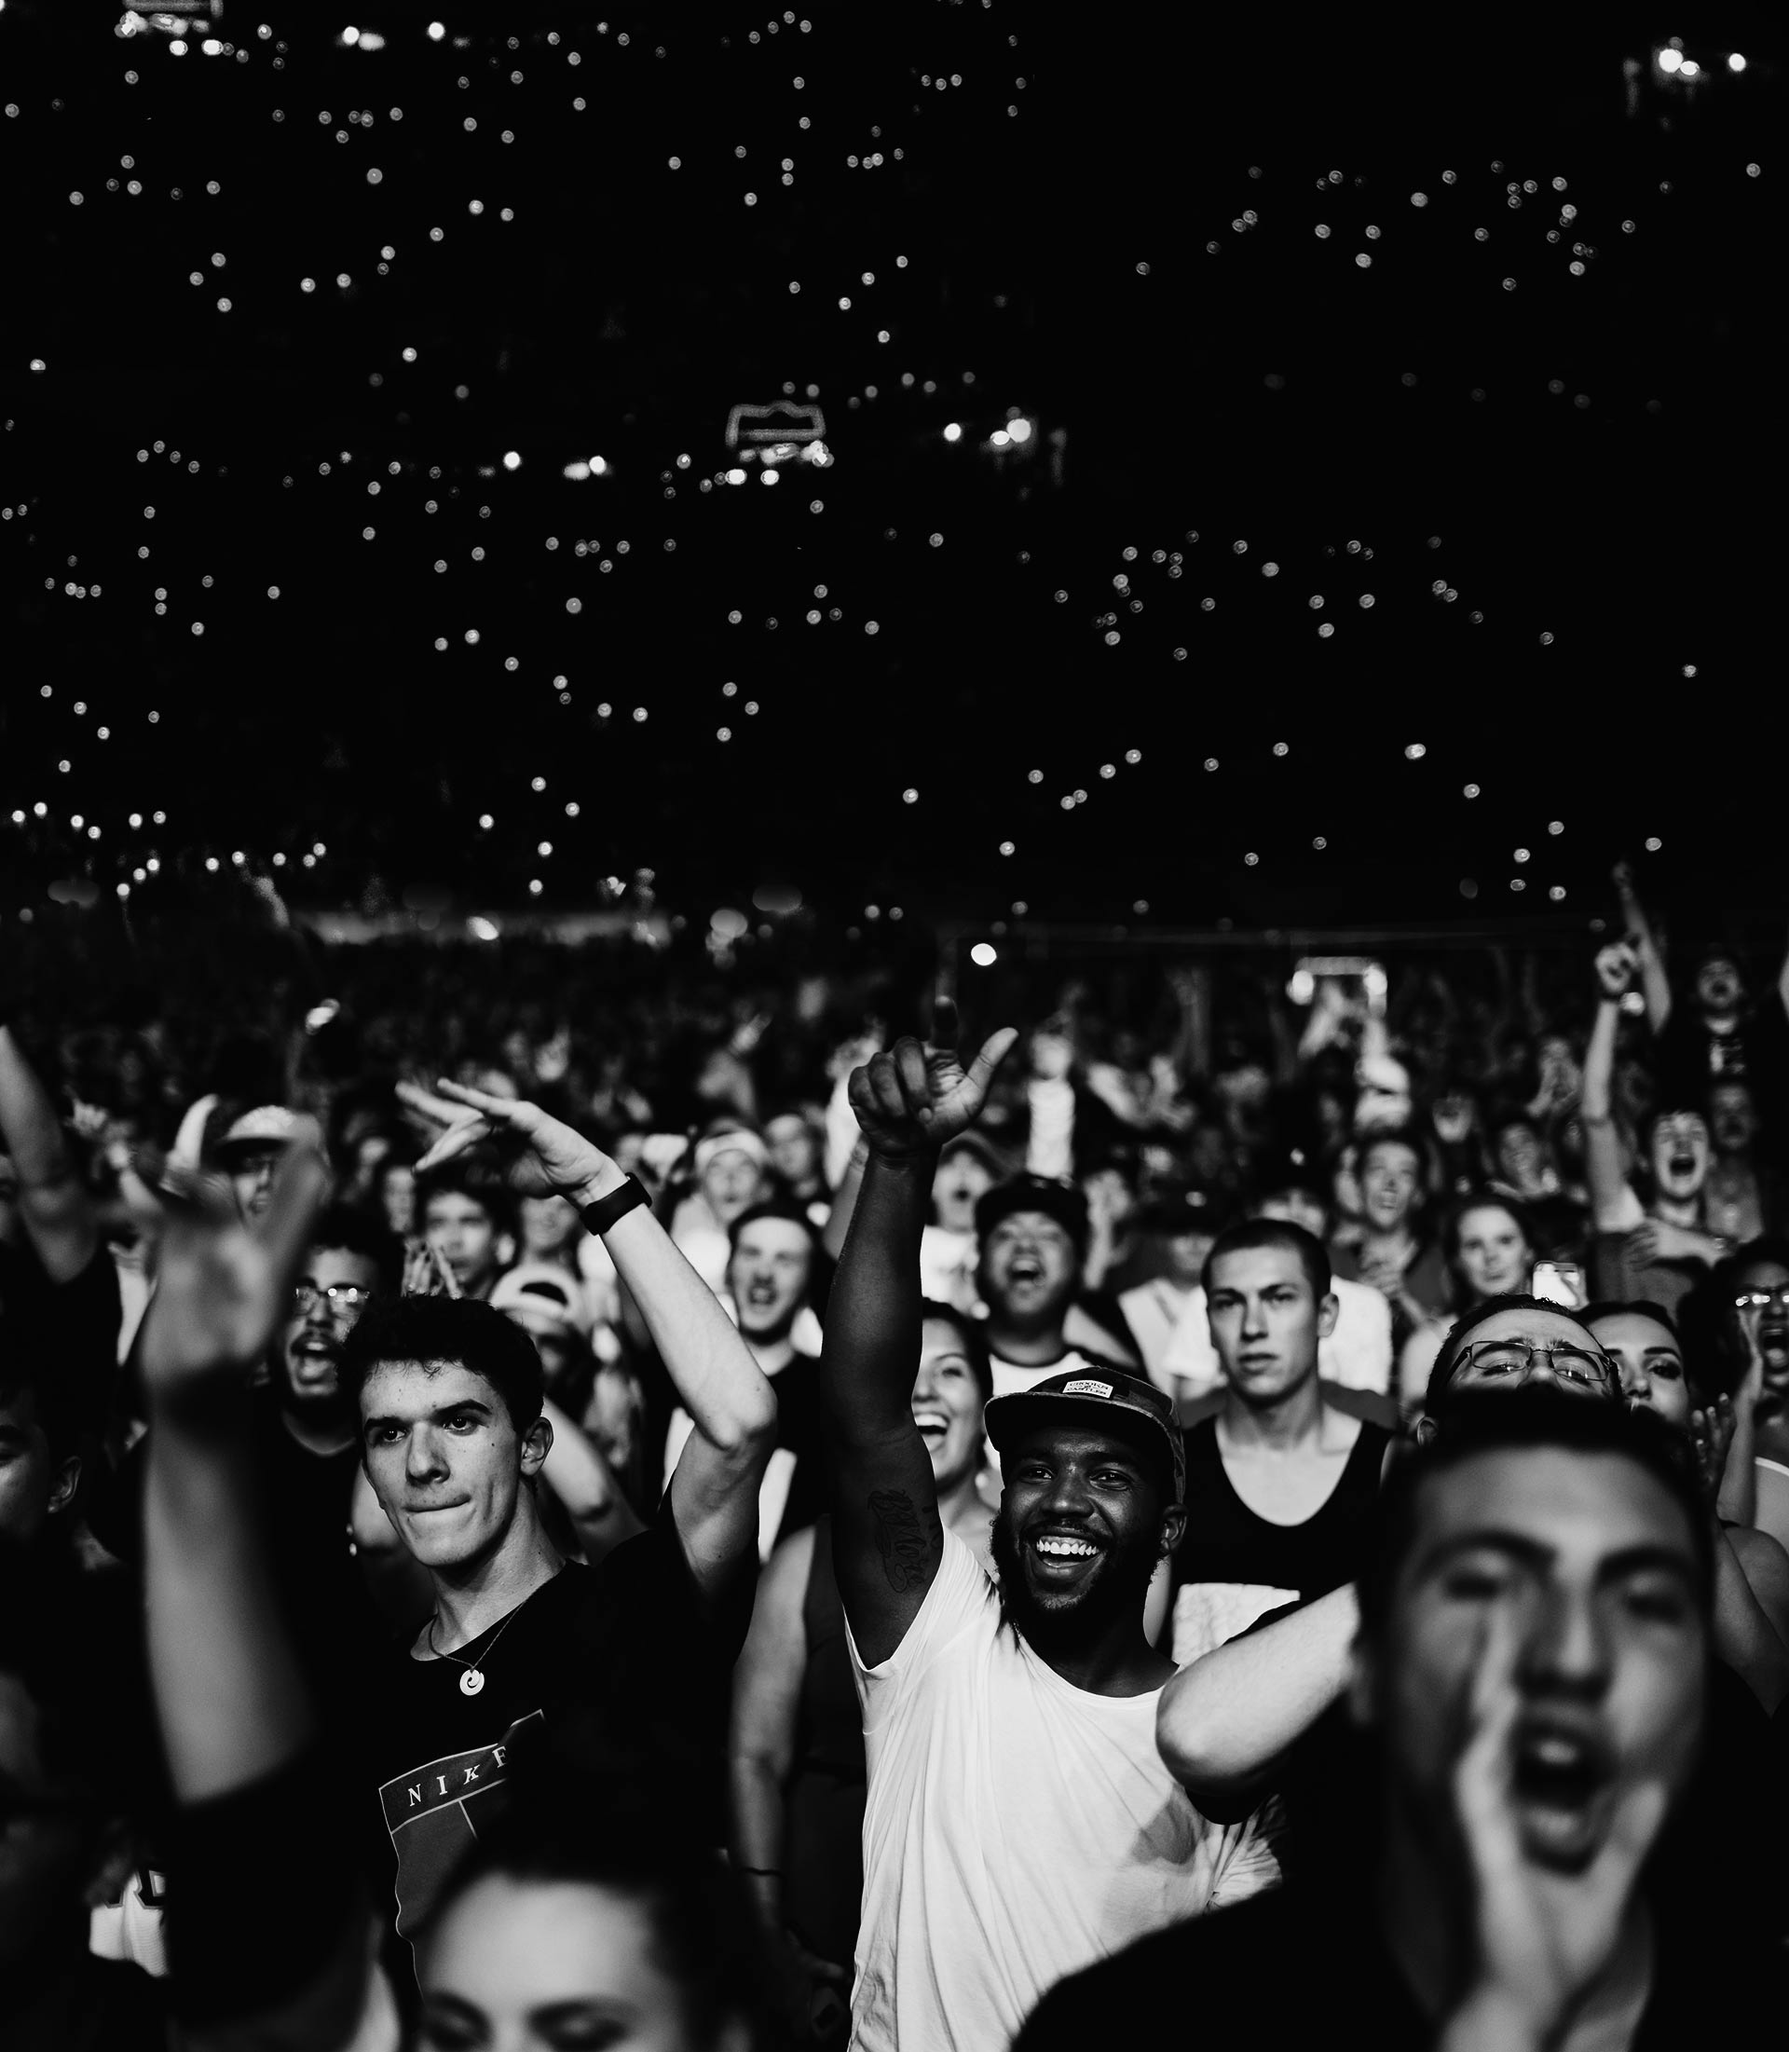
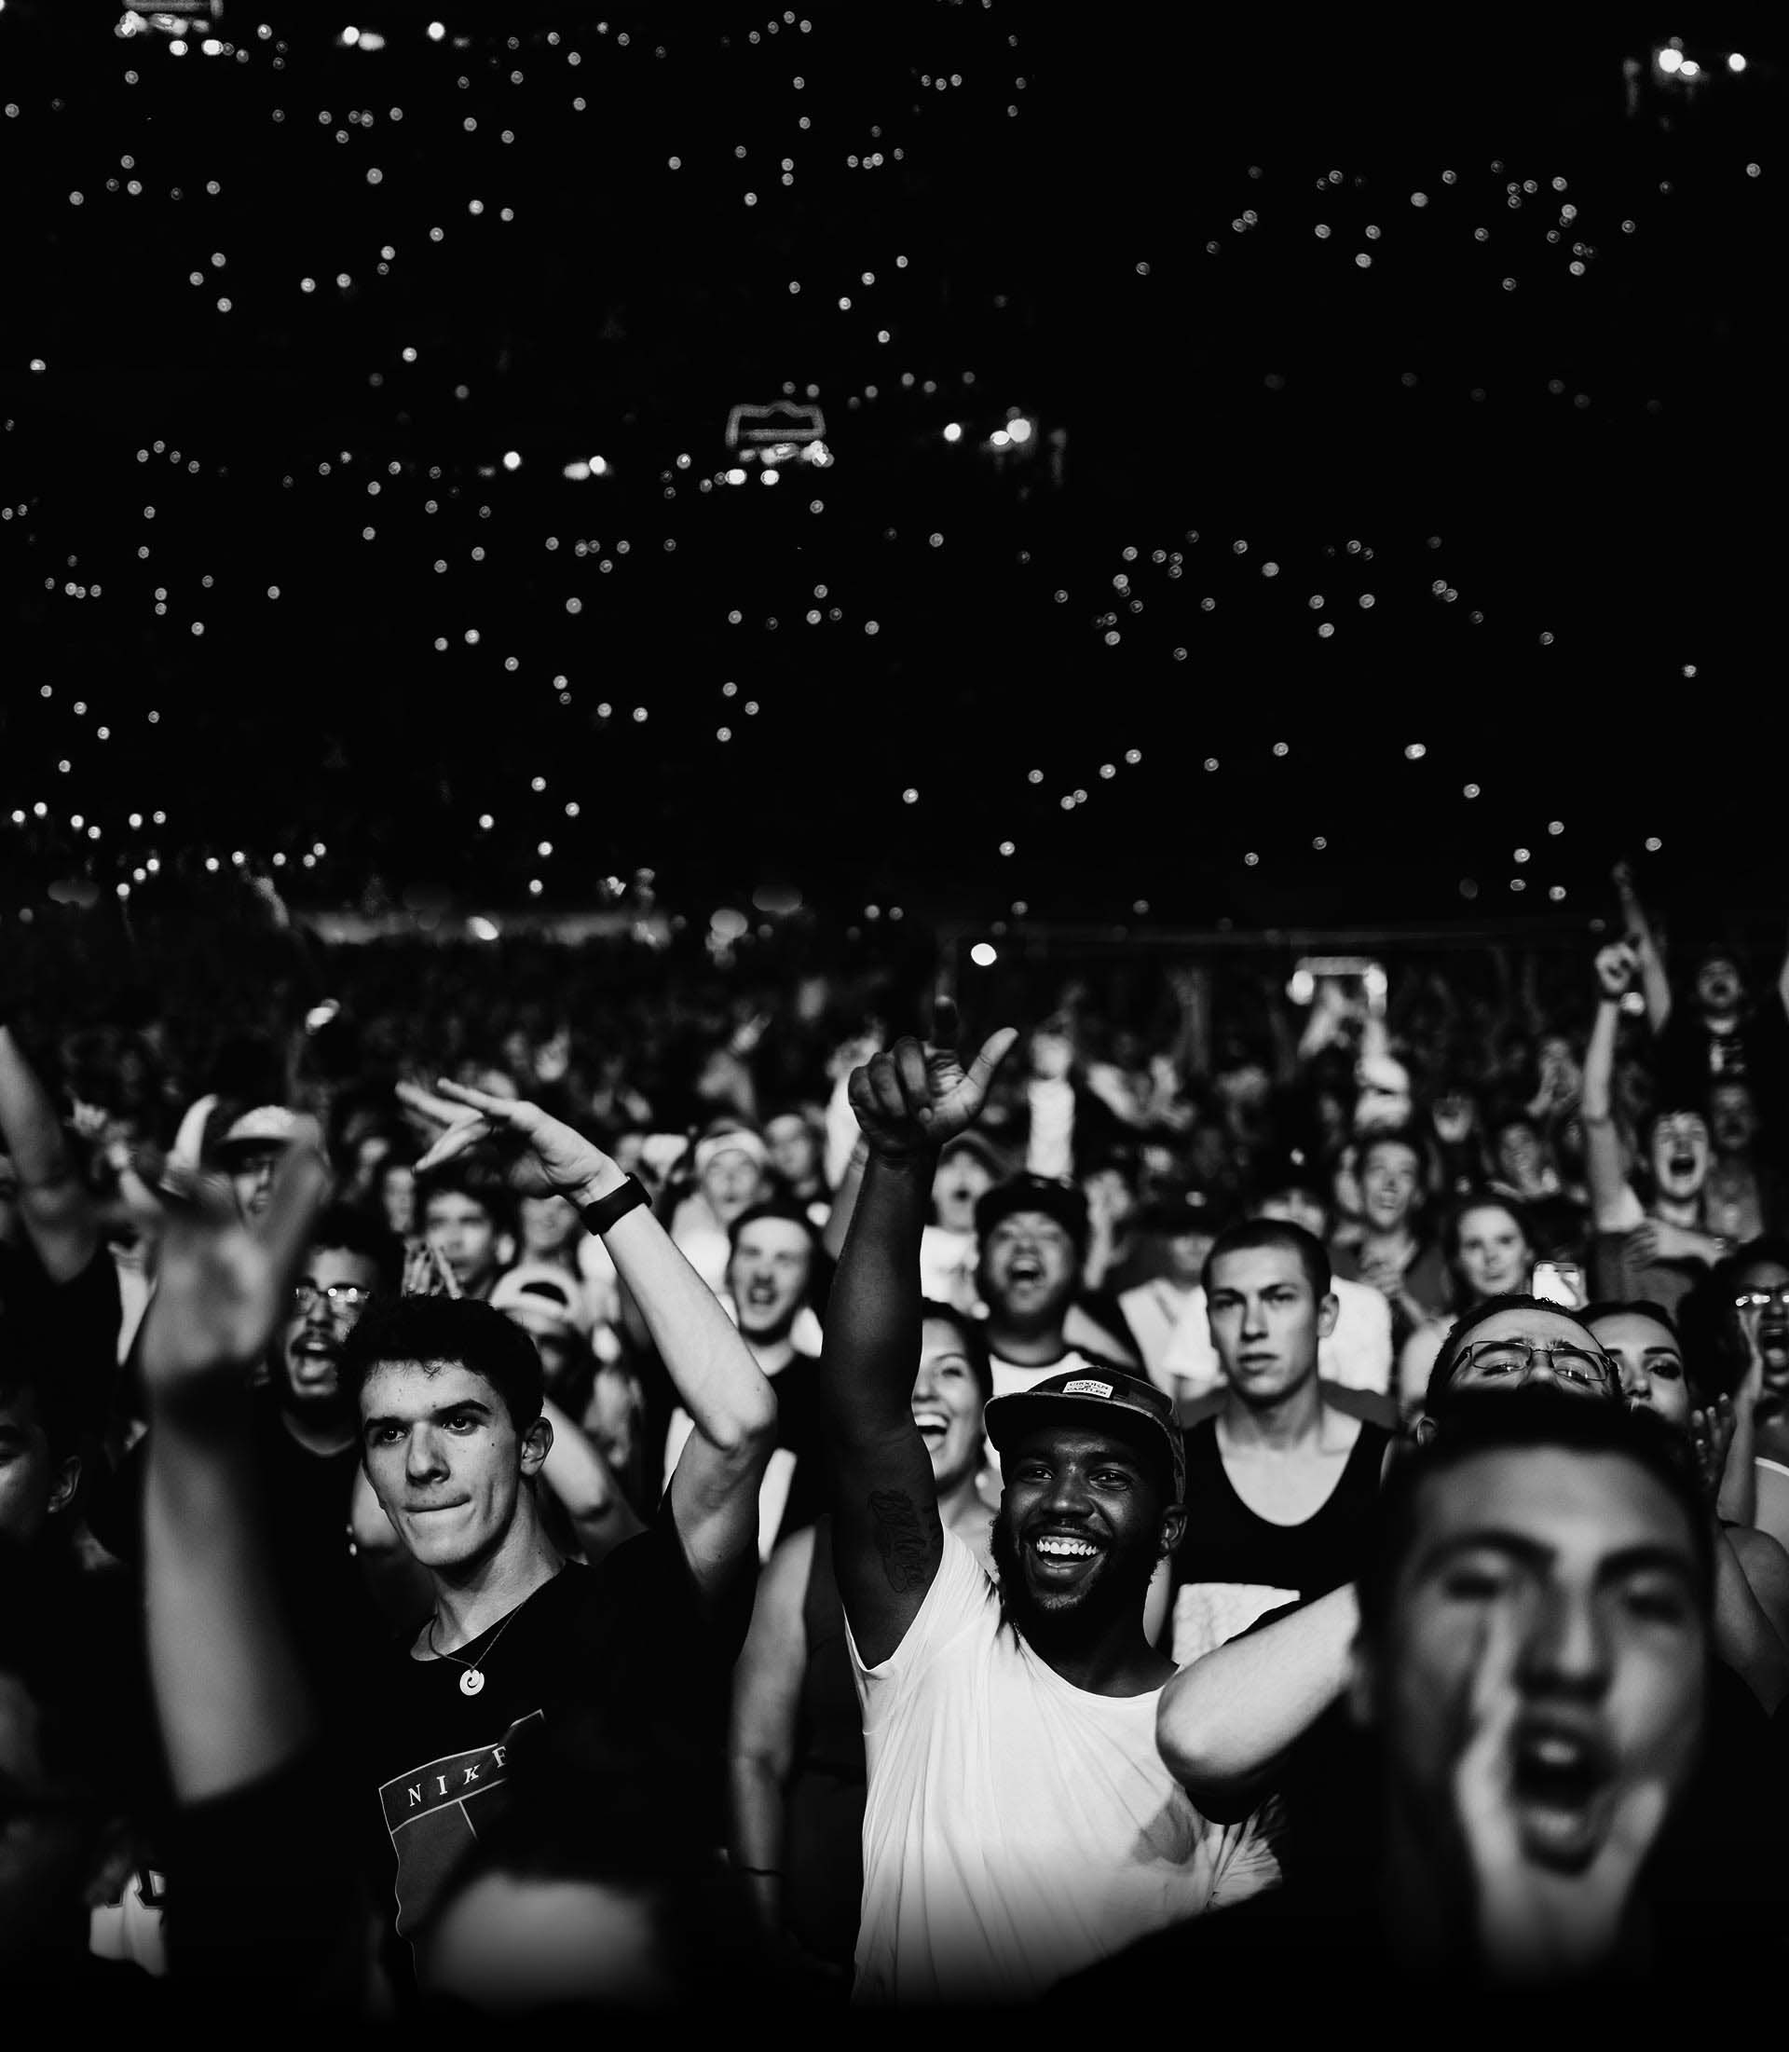
Final Commit - Initial Publish

diff --git a/css/team/style-team.css b/css/team/style-team.css
@@ -90,9 +90,7 @@ button.navbar-toggler {
     border: 0.5px solid rgba(128, 128, 128, 0.09); } }
 
 body {
-  background: url("../../img/sel1.jpg");
-  background-size: contain;
-  background-repeat: cover; }
+  background: url("../../img/sel1.jpg"); }
 
 .container.team-container {
   background: white;
@@ -143,11 +141,11 @@ body {
 
 .image-blur {
   position: relative;
-  top: -166px;
+  top: -170px;
   border-radius: 100px;
   width: 130px;
-  -webkit-filter: blur(9.6px);
-  filter: blur(9.6px); }
+  -webkit-filter: blur(12px);
+  filter: blur(12px); }
 
 .member-name {
   color: #3c4858;
@@ -162,6 +160,17 @@ body {
 
 .item {
   border: solid 1px green; }
+
+.category {
+  margin-top: 32px;
+  font-size: 16px; }
+
+.list-group-item {
+  border: none;
+  padding-bottom: 2px;
+  padding-left: 0px;
+  text-transform: uppercase;
+  font-size: 14px; }
 
 .border {
   border: 3px solid blue; }
@@ -182,10 +191,10 @@ body {
 
 .page-footer {
   bottom: 0px;
-  background: -webkit-gradient(linear, left bottom, left top, from(black), to(transparent));
-  background: -webkit-linear-gradient(bottom, black, transparent);
-  background: -o-linear-gradient(bottom, black, transparent);
-  background: linear-gradient(0deg, black, transparent);
+  background: -webkit-gradient(linear, left bottom, left top, color-stop(10%, black), color-stop(90%, transparent));
+  background: -webkit-linear-gradient(bottom, black 10%, transparent 90%);
+  background: -o-linear-gradient(bottom, black 10%, transparent 90%);
+  background: linear-gradient(0deg, black 10%, transparent 90%);
   padding: 70px 0 0 0;
   height: 320px; }
   .page-footer ul {

diff --git a/team.html b/team.html
@@ -69,8 +69,8 @@
             <div class="col-md-auto">
                 <div class="box">
                     <div class="img-container">
-                        <img src="./img/myAvatar.png" alt="" class="img-fluid image">
-                        <img src="./img/myAvatar.png" alt="" class="img-fluid image-blur">
+                        <img src="./img/avatars/manojtjoy.jpg" alt="" class="img-fluid image">
+                        <img src="./img/avatars/manojtjoy.jpg" alt="" class="img-fluid image-blur">
                     </div>
                     <h4 class="member-name">Manoj T Joy</h4>
                     <h5 class="member-desig">Faculty in charge</h5>

diff --git a/sass/team/_teamcontainer.sass b/sass/team/_teamcontainer.sass
@@ -12,9 +12,6 @@ $sub-text-color: #999
 
 body
     background: url('../../img/sel1.jpg')
-    background:
-        size: contain
-        repeat: cover
 
 .container.team-container
     background: white
@@ -64,10 +61,10 @@ body
 
 .image-blur
     position: relative
-    top: -166px
+    top: -170px
     border-radius: 100px
     width: 130px
-    filter: blur(9.6px)
+    filter: blur(12px)
 
 
 .member-name
@@ -85,3 +82,14 @@ body
 
 .item
     border: solid 1px green
+
+.category
+    margin-top: 32px
+    font-size: 16px
+.list-group-item
+    border: none
+    padding:
+        bottom: 2px
+        left: 0px
+    text-transform: uppercase
+    font-size: 14px

diff --git a/sass/team/_footer.sass b/sass/team/_footer.sass
@@ -21,7 +21,7 @@ body
 
 .page-footer
     bottom: 0px
-    background: linear-gradient(0deg,black,rgba(0,0,0,0))
+    background: linear-gradient(0deg,black 10%,rgba(0,0,0,0) 90%)
     padding: 70px 0 0 0
     height: 320px
 
